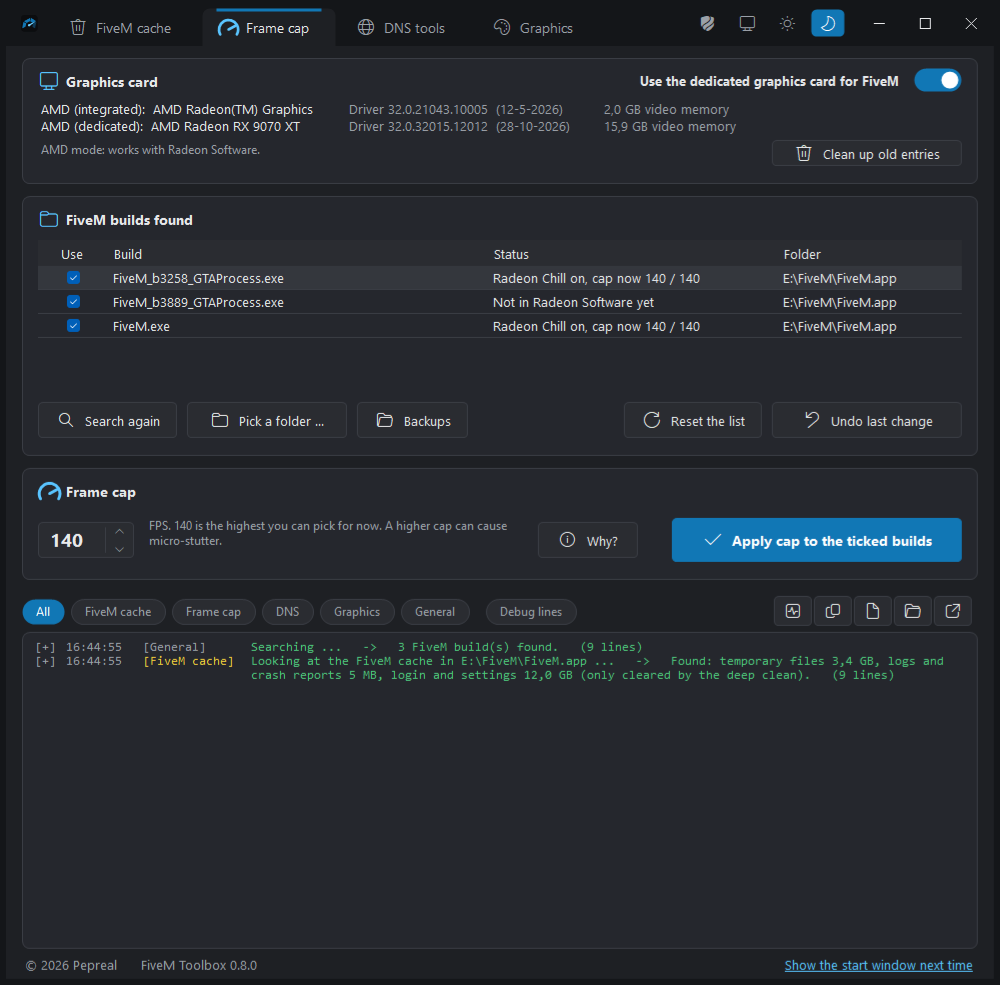
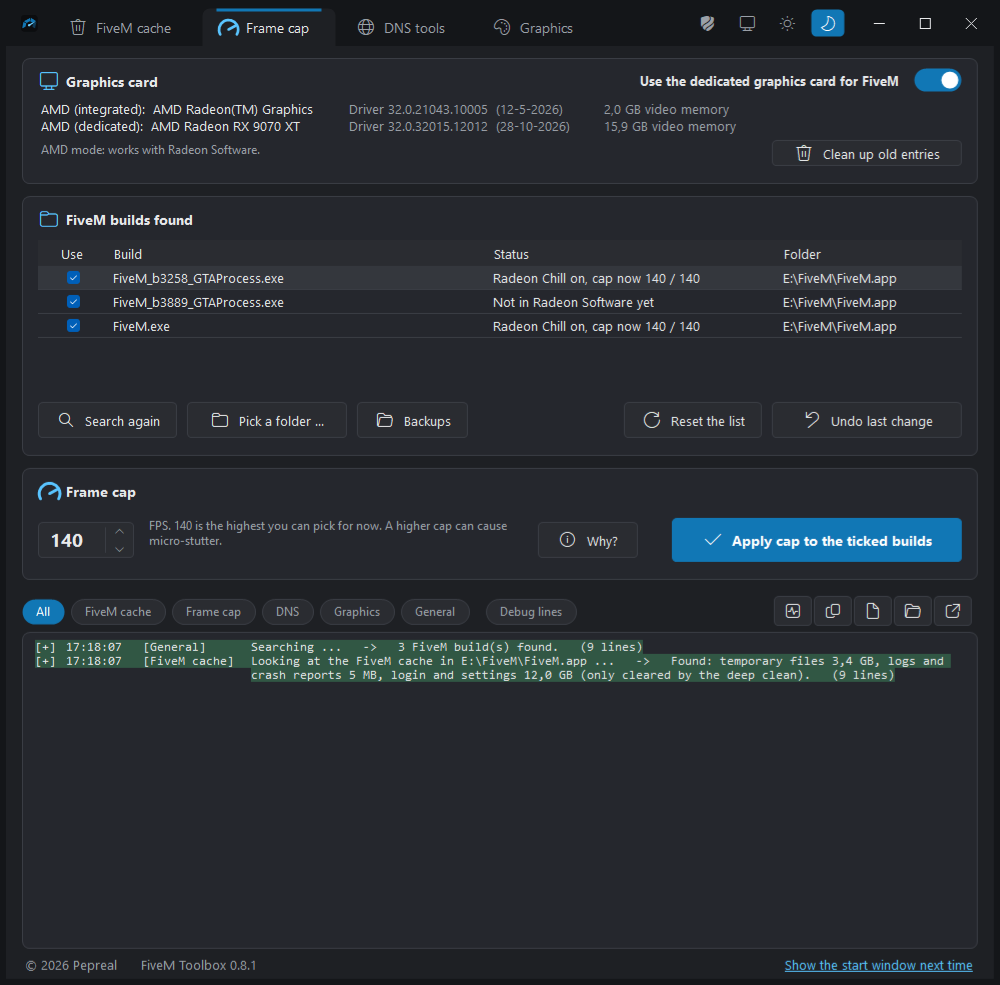
FiveM Toolbox 0.8.1 - log lines with a result have a coloured background
A log line with a result (good, small problem, warning, error, broken) now has
the colour as its background and keeps the normal text colour, in the light and
the dark theme. Before, the coloured text was hard to see on the light theme.
New self test --log-color-test. README pictures redrawn with 0.8.1.

Changed region(s): [[0.031, 0.6396, 0.961, 0.7005]]

diff --git a/source/FiveMToolbox.cs b/source/FiveMToolbox.cs
@@ -5080,6 +5080,26 @@ namespace FiveMFrameCap
             return ColorTranslator.FromHtml(d ? "#e879f9" : "#a21caf");
         }
 
+        // The background of a line with a result (green good, yellow light problem, orange warning, red error, purple broken): the colour of the result mixed into the
+        // log background, so the normal text colour stays easy to read in the light and in the dark theme. (Coloured text was hard to see on white.)
+        static Color Band(int sev)
+        {
+            Color c = sev == 1 ? Theme.Good : sev == 2 ? ColorTranslator.FromHtml(Theme.IsDark ? "#f4cf3c" : "#c99700") : sev == 3 ? SevColor(3) : sev == 4 ? Theme.Bad : SevColor(5);
+            return Fx.Mix(Theme.Bg2, c, Theme.IsDark ? 0.30f : 0.24f);
+        }
+
+        // for --log-color-test
+        public static int TestBand(int sev) { return Band(sev).ToArgb(); }
+        public int[] TestColors(string part)
+        {
+            int i = box.Text.IndexOf(part, StringComparison.Ordinal);
+            if (i < 0) return null;
+            box.Select(i, Math.Min(4, part.Length));
+            int[] r = new int[] { box.SelectionBackColor.ToArgb(), box.SelectionColor.ToArgb() };
+            box.Select(box.TextLength, 0);
+            return r;
+        }
+
         static string Cw(string s) { return s.Replace('~', (char)92); }
 
         static string Esc(string s)
@@ -5114,13 +5134,19 @@ namespace FiveMFrameCap
             int msgTw = Tw(28);
             int cTool = e.Tool == "Frame cap" ? 3 : e.Tool == "DNS" ? 4 : e.Tool == "FiveM cache" ? 5 : e.Tool == "Graphics" ? 13 : 6;
             int cMsg = (e.Debug && sev < 4) ? 1 : sev <= 0 ? 2 : 7 + sev;
+            // a line with a result gets the colour as its BACKGROUND and all its text in the normal text colour (colour 2); a plain line keeps its colours
+            bool band = sev >= 1 && !(e.Debug && sev < 4);
+            int cMark = band ? 2 : 1, cTag = band ? 2 : cTool, cText = band ? 2 : cMsg;
             string tag = "[" + e.Tool + "]";
             int start = plain.Length;
             rtf.Append(Cw("~pard~li")).Append(msgTw).Append(Cw("~fi-")).Append(msgTw);
             rtf.Append(Cw("~tx")).Append(Tw(4)).Append(Cw("~tx")).Append(Tw(14)).Append(Cw("~tx")).Append(msgTw).Append(' ');
-            rtf.Append(Cw("~cf1 ")).Append(Esc(marker)).Append(Cw("~tab ")).Append(Esc(e.Time)).Append(Cw("~tab "));
-            rtf.Append(Cw("~cf")).Append(cTool).Append(' ').Append(Esc(tag)).Append(Cw("~tab "));
-            rtf.Append(Cw("~cf")).Append(cMsg).Append(' ').Append(Esc(message)).Append(Cw("~par "));
+            if (band) rtf.Append(Cw("~highlight")).Append(13 + sev).Append(' ');
+            rtf.Append(Cw("~cf")).Append(cMark).Append(' ').Append(Esc(marker)).Append(Cw("~tab ")).Append(Esc(e.Time)).Append(Cw("~tab "));
+            rtf.Append(Cw("~cf")).Append(cTag).Append(' ').Append(Esc(tag)).Append(Cw("~tab "));
+            rtf.Append(Cw("~cf")).Append(cText).Append(' ').Append(Esc(message));
+            if (band) rtf.Append(Cw("~highlight0"));
+            rtf.Append(Cw("~par "));
             plain.Append(marker).Append('\t').Append(e.Time).Append('\t').Append(tag).Append('\t').Append(message).Append('\n');
             if (headerGroup != 0) headerRanges.Add(new int[] { start, plain.Length, headerGroup });
         }
@@ -5134,7 +5160,7 @@ namespace FiveMFrameCap
             headerRanges.Clear(); openNow.Clear();
             rtf.Append(Cw("{~rtf1~ansi~uc1~deff0{~fonttbl{~f0 Consolas;}}"));
             rtf.Append(Cw("{~colortbl ;")).Append(ColorEntry(Theme.Text2)).Append(ColorEntry(Theme.Text)).Append(ColorEntry(ToolColor("Frame cap")))
-               .Append(ColorEntry(ToolColor("DNS"))).Append(ColorEntry(ToolColor("FiveM cache"))).Append(ColorEntry(Theme.Text2)).Append(ColorEntry(Theme.Bad)).Append(ColorEntry(Theme.Good)).Append(ColorEntry(SevColor(2))).Append(ColorEntry(SevColor(3))).Append(ColorEntry(Theme.Bad)).Append(ColorEntry(SevColor(5))).Append(ColorEntry(ToolColor("Graphics"))).Append('}');
+               .Append(ColorEntry(ToolColor("DNS"))).Append(ColorEntry(ToolColor("FiveM cache"))).Append(ColorEntry(Theme.Text2)).Append(ColorEntry(Theme.Bad)).Append(ColorEntry(Theme.Good)).Append(ColorEntry(SevColor(2))).Append(ColorEntry(SevColor(3))).Append(ColorEntry(Theme.Bad)).Append(ColorEntry(SevColor(5))).Append(ColorEntry(ToolColor("Graphics"))).Append(ColorEntry(Band(1))).Append(ColorEntry(Band(2))).Append(ColorEntry(Band(3))).Append(ColorEntry(Band(4))).Append(ColorEntry(Band(5))).Append('}');
             rtf.Append(Cw("~f0~fs18 "));
 
             int i = 0;
@@ -9414,7 +9440,7 @@ namespace FiveMFrameCap
                 if (Directory.Exists(oldDir) && !Directory.Exists(newDir)) Directory.Move(oldDir, newDir);
             }
             catch (Exception) { }
-            bool isShot = args.Length >= 2 && (args[0] == "--shot" || args[0] == "--reset-ui-test" || args[0] == "--reset-form-test" || args[0] == "--dpi-test" || args[0] == "--pure-icon-test" || args[0] == "--log-fold-test");
+            bool isShot = args.Length >= 2 && (args[0] == "--shot" || args[0] == "--log-color-test" || args[0] == "--reset-ui-test" || args[0] == "--reset-form-test" || args[0] == "--dpi-test" || args[0] == "--pure-icon-test" || args[0] == "--log-fold-test");
             bool relaunched = false;
             foreach (string a0 in args) if (a0 == "--page" || a0 == "--relaunch") relaunched = true;
             if (!isShot)
@@ -9489,6 +9515,58 @@ namespace FiveMFrameCap
                 catch (Exception uex) { us.AppendLine("EXCEPTION " + uex); }
                 File.WriteAllText(args[4].Replace(".png", ".txt"), us.ToString());
                 return 0;
+            }
+            if (args.Length >= 2 && args[0] == "--log-color-test")
+            {
+                // --log-color-test <outfile>: a line with a result has the colour as its BACKGROUND, in the light and in the dark theme. The text stays the normal text colour and is easy to read.
+                StringBuilder cs = new StringBuilder();
+                int cfail = 0;
+                Action<bool, string> cck = delegate(bool good, string what) { if (!good) cfail++; cs.AppendLine((good ? "PASS  " : "FAIL  ") + what); };
+                Func<Color, double> lum = delegate(Color c)
+                {
+                    Func<int, double> ch = delegate(int v) { double x = v / 255.0; return x <= 0.03928 ? x / 12.92 : Math.Pow((x + 0.055) / 1.055, 2.4); };
+                    return 0.2126 * ch(c.R) + 0.7152 * ch(c.G) + 0.0722 * ch(c.B);
+                };
+                Func<Color, Color, double> contrast = delegate(Color a, Color b) { double la = lum(a), lb = lum(b); return (Math.Max(la, lb) + 0.05) / (Math.Min(la, lb) + 0.05); };
+                try
+                {
+                    Loc.Force("en");
+                    foreach (string mode in new string[] { "dark", "light" })
+                    {
+                        Theme.Force(mode);
+                        List<int> bands = new List<int>();
+                        for (int sv = 1; sv <= 5; sv++) bands.Add(LogPanel.TestBand(sv));
+                        string[] msgs = new string[] { "colortest-" + mode + " plain line", "colortest-" + mode + " Backup saved ok", "colortest-" + mode + " still reports it", "colortest-" + mode + " warning here", "colortest-" + mode + " something failed", "colortest-" + mode + " unhandled exception" };
+                        Form host = new Form(); host.Width = 900; host.Height = 500;
+                        LogPanel lp = new LogPanel(false, true); host.Controls.Add(lp); Theme.Apply(host); host.Show();
+                        for (int i = 0; i < msgs.Length; i++) { AppLog.Add(msgs[i]); AppLog.Add("colortest-" + mode + " plain after " + i); }
+                        lp.TestRebuild();
+                        Application.DoEvents(); using (Bitmap sb = new Bitmap(host.Width, host.Height)) { Snap(host, sb); sb.Save(args[1] + "." + mode + ".png", System.Drawing.Imaging.ImageFormat.Png); }   // a picture to look at
+                        for (int sev = 1; sev <= 5; sev++)
+                        {
+                            int[] cc = lp.TestColors(msgs[sev]);
+                            Color band = Color.FromArgb(LogPanel.TestBand(sev));
+                            cck(cc != null && cc[0] == band.ToArgb(), mode + ": severity " + sev + " line has its band as the background (" + (cc != null ? cc[0].ToString("X8") : "none") + ", wanted " + band.ToArgb().ToString("X8") + ")");
+                            cck(cc != null && cc[1] == Theme.Text.ToArgb(), mode + ": severity " + sev + " line has the normal text colour (" + (cc != null ? cc[1].ToString("X8") : "none") + ")");
+                            double cr = contrast(Theme.Text, band);
+                            cck(cr >= 4.5, mode + ": severity " + sev + ": the text is easy to read on its band (contrast " + cr.ToString("0.0") + ", at least 4.5)");
+                            double cv = contrast(Theme.Bg2, band);
+                            cck(cv >= 1.2, mode + ": severity " + sev + ": the band is easy to see against the log background (contrast " + cv.ToString("0.00") + ", at least 1.2)");
+                            int[] after = lp.TestColors("colortest-" + mode + " plain after " + sev);
+                            cck(after != null && !bands.Contains(after[0]), mode + ": the plain line right after it has no band");
+                        }
+                        int[] pl = lp.TestColors(msgs[0]);
+                        cck(pl != null && !bands.Contains(pl[0]), mode + ": a plain line has no band");
+                        bool distinct = true;
+                        for (int i = 0; i < bands.Count; i++) for (int j = i + 1; j < bands.Count; j++) if (bands[i] == bands[j]) distinct = false;
+                        cck(distinct, mode + ": the five bands are five different colours");
+                        host.Close();
+                    }
+                }
+                catch (Exception cex) { cfail++; cs.AppendLine("FAIL  EXCEPTION " + cex); }
+                cs.AppendLine(cfail == 0 ? "ALL PASSED" : "FAILED: " + cfail);
+                File.WriteAllText(args[1], cs.ToString());
+                return cfail == 0 ? 0 : 1;
             }
             if (args.Length >= 2 && args[0] == "--log-fold-test")
             {

diff --git a/CHANGELOG.md b/CHANGELOG.md
@@ -7,6 +7,8 @@ Tags: NEW, CHANGED, FIXED.
 
 ## v0.8.1 - 2026-11-10 (latest)
 
+**CHANGED** - **A line in the log with a result has the colour as its background.** *Before, the text was coloured, and that was hard to see on the light theme. Now the line has a coloured background (green: good, yellow: a small problem, orange: a warning, red: an error, purple: something really broken) and the text keeps the normal colour. It is the same in the light and the dark theme, and the text is easy to read on every colour (checked by a self test).*
+
 **CHANGED** - **The log keeps a finished job open while you stay on the tab.** *Before, a job (for example the search when the program starts) was folded into one line at once. Now it stays open while you are on the tab where it happened, and it folds up when you change to another tab. A job you open or fold by hand stays as you left it, a job with a problem stays open, and the pop-out log folds a finished job at once, as before.*
 
 ## v0.8.0 - 2026-11-10
